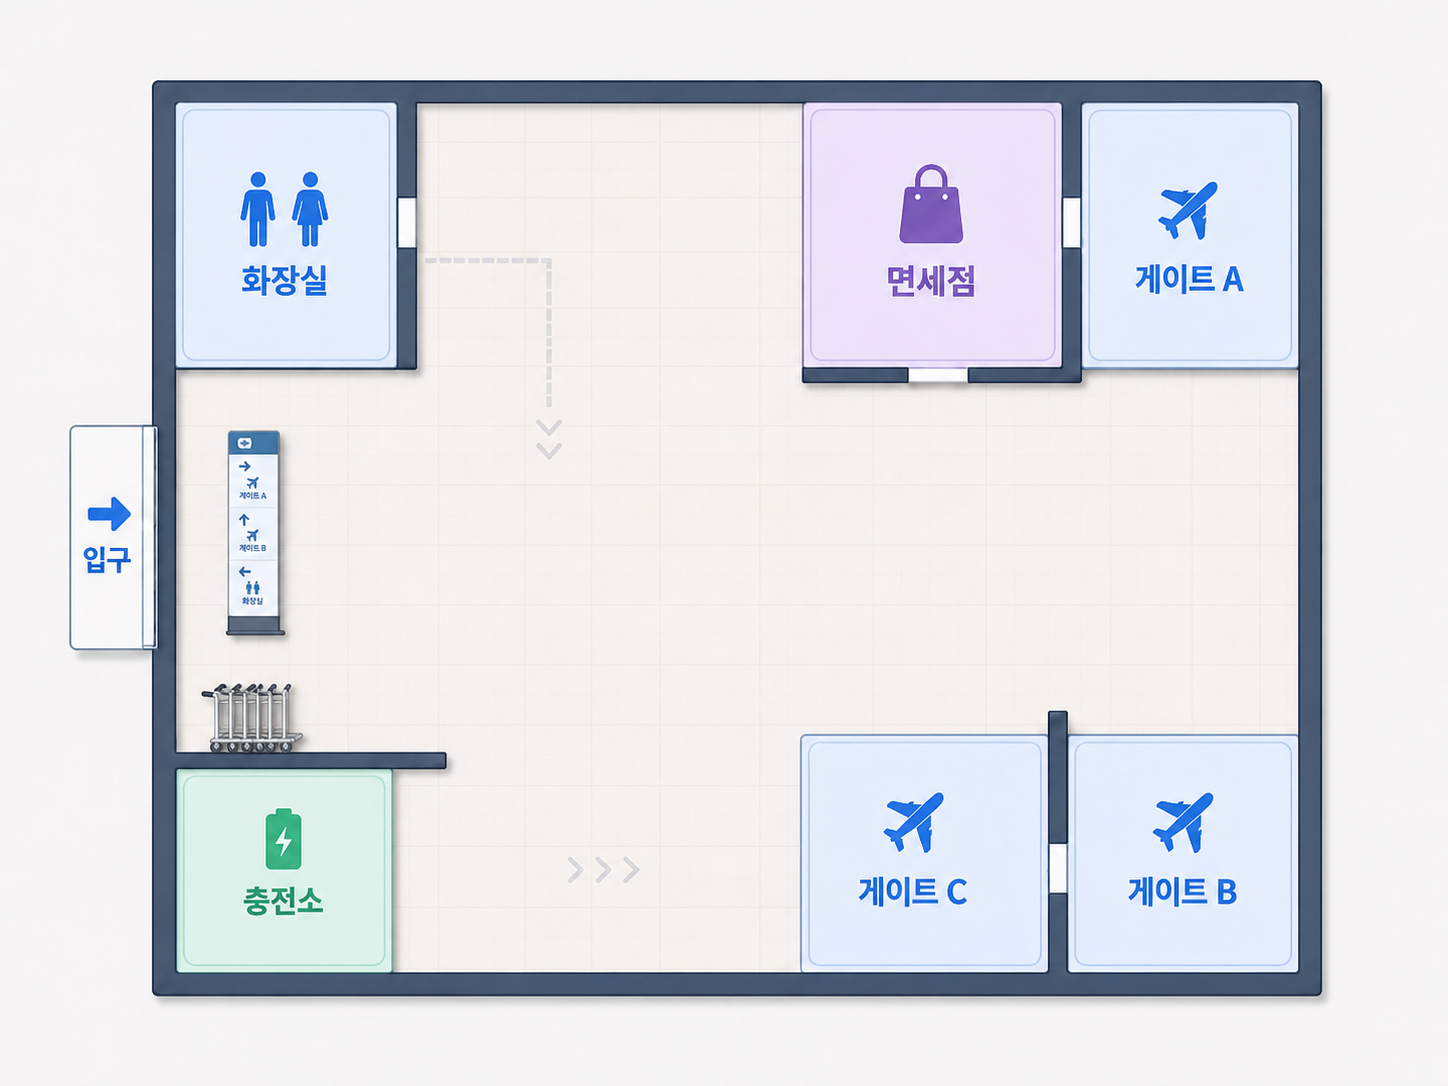
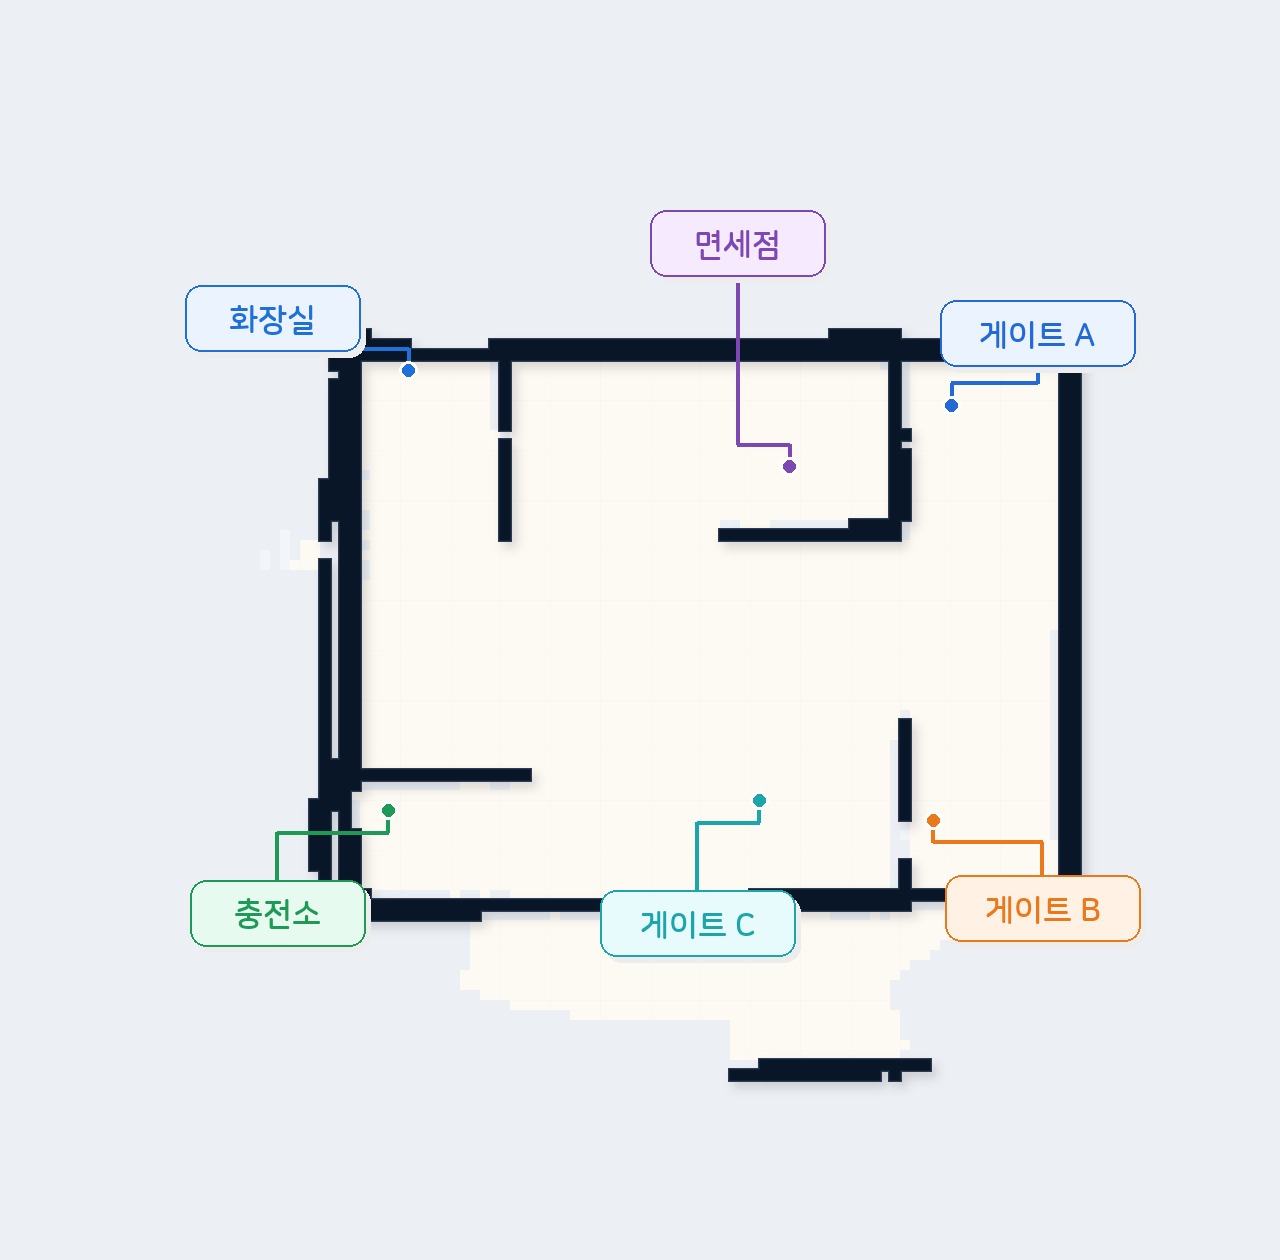
done

Changed region(s): [[0.0312, 0.0608, 0.9375, 0.942], [0.4062, 0.7901, 0.4375, 0.8204]]

diff --git a/flask_server/static/js/navigation.js b/flask_server/static/js/navigation.js
@@ -125,22 +125,10 @@ function drawNavigationMap() {
     });
 
     route.forEach((target) => {
-        let point;
-
-        if (
-            typeof target.map_x === "number" &&
-            typeof target.map_y === "number"
-        ) {
-            point = mapImagePixelToCanvasPoint(
-                target.map_x,
-                target.map_y
-            );
-        } else {
-            point = rosToCanvasPoint(
-                target.x,
-                target.y
-            );
-        }
+        const point = rosToCanvasPoint(
+            target.x,
+            target.y
+        );
 
         points.push({
             ...point,
@@ -153,40 +141,40 @@ function drawNavigationMap() {
     drawMarkers(ctx, points);
 }
 
-function mapImagePixelToCanvasPoint(imageX, imageY) {
-    const canvasRect = mapCanvas.getBoundingClientRect();
+// function mapImagePixelToCanvasPoint(imageX, imageY) {
+//     const canvasRect = mapCanvas.getBoundingClientRect();
 
-    const canvasWidth = canvasRect.width;
-    const canvasHeight = canvasRect.height;
+//     const canvasWidth = canvasRect.width;
+//     const canvasHeight = canvasRect.height;
 
-    const imageWidth = mapImage.naturalWidth;
-    const imageHeight = mapImage.naturalHeight;
+//     const imageWidth = mapImage.naturalWidth;
+//     const imageHeight = mapImage.naturalHeight;
 
-    const imageRatio = imageWidth / imageHeight;
-    const canvasRatio = canvasWidth / canvasHeight;
+//     const imageRatio = imageWidth / imageHeight;
+//     const canvasRatio = canvasWidth / canvasHeight;
 
-    let drawWidth;
-    let drawHeight;
-    let offsetX;
-    let offsetY;
+//     let drawWidth;
+//     let drawHeight;
+//     let offsetX;
+//     let offsetY;
 
-    if (canvasRatio > imageRatio) {
-        drawHeight = canvasHeight;
-        drawWidth = drawHeight * imageRatio;
-        offsetX = (canvasWidth - drawWidth) / 2;
-        offsetY = 0;
-    } else {
-        drawWidth = canvasWidth;
-        drawHeight = drawWidth / imageRatio;
-        offsetX = 0;
-        offsetY = (canvasHeight - drawHeight) / 2;
-    }
+//     if (canvasRatio > imageRatio) {
+//         drawHeight = canvasHeight;
+//         drawWidth = drawHeight * imageRatio;
+//         offsetX = (canvasWidth - drawWidth) / 2;
+//         offsetY = 0;
+//     } else {
+//         drawWidth = canvasWidth;
+//         drawHeight = drawWidth / imageRatio;
+//         offsetX = 0;
+//         offsetY = (canvasHeight - drawHeight) / 2;
+//     }
 
-    return {
-        x: offsetX + (imageX / imageWidth) * drawWidth,
-        y: offsetY + (imageY / imageHeight) * drawHeight
-    };
-}
+//     return {
+//         x: offsetX + (imageX / imageWidth) * drawWidth,
+//         y: offsetY + (imageY / imageHeight) * drawHeight
+//     };
+// }
 
 function drawRouteLine(ctx, points) {
     if (points.length < 2) {

diff --git a/flask_server/static/css/navigation.css b/flask_server/static/css/navigation.css
@@ -216,7 +216,7 @@
     object-fit: contain;
     display: block;
 
-    image-rendering: pixelated;
+    image-rendering: auto;
 }
 
 #mapCanvas {
@@ -227,6 +227,7 @@
     height: 100%;
 
     pointer-events: none;
+    image-rendering: auto;
 }
 
 .empty-map {

diff --git a/flask_server/app.py b/flask_server/app.py
@@ -239,8 +239,6 @@ def start_navigation():
             "x" : location["pos_x"],
             "y" : location["pos_y"],
             "yaw" : location["yaw"],
-            "map_x" : location["map_x"],
-            "map_y" : location["map_y"]
         })
     
     print("최종 경로")
@@ -418,8 +416,6 @@ def callrobot_qrcall():
                 "x" : location["pos_x"],
                 "y" : location["pos_y"],
                 "yaw" : location["yaw"],
-                "map_x" : location["map_x"],
-                "map_y" : location["map_y"]
             }
         ]
 
